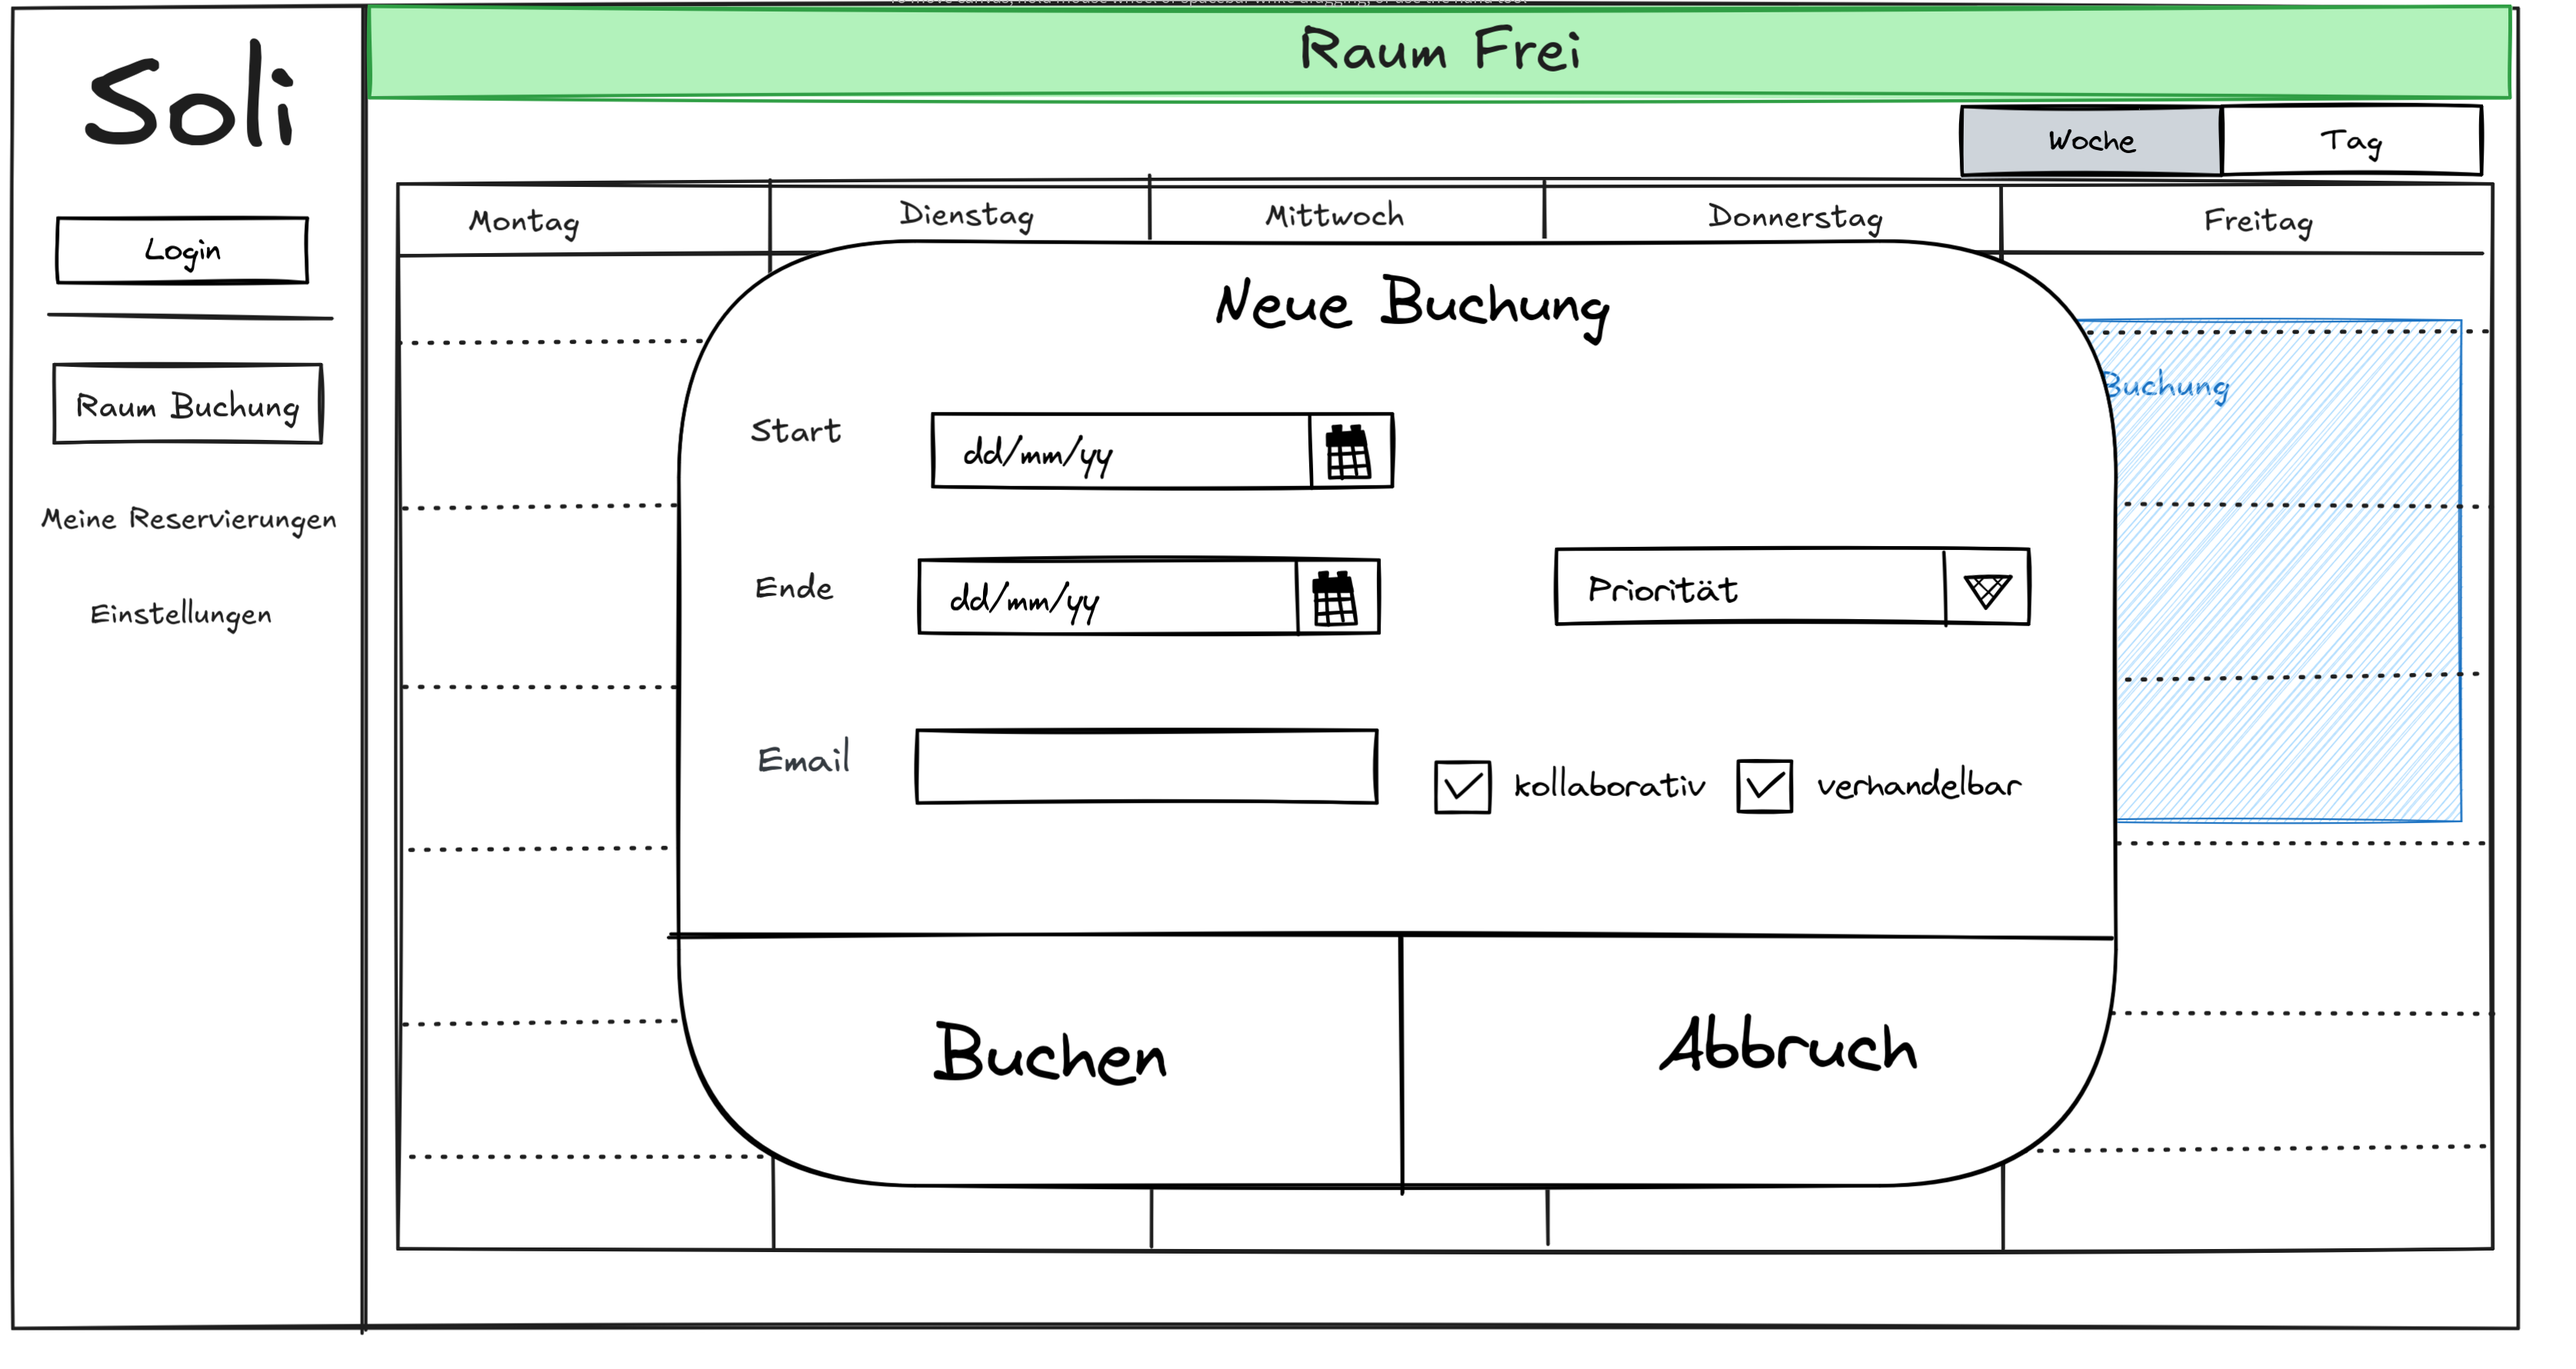
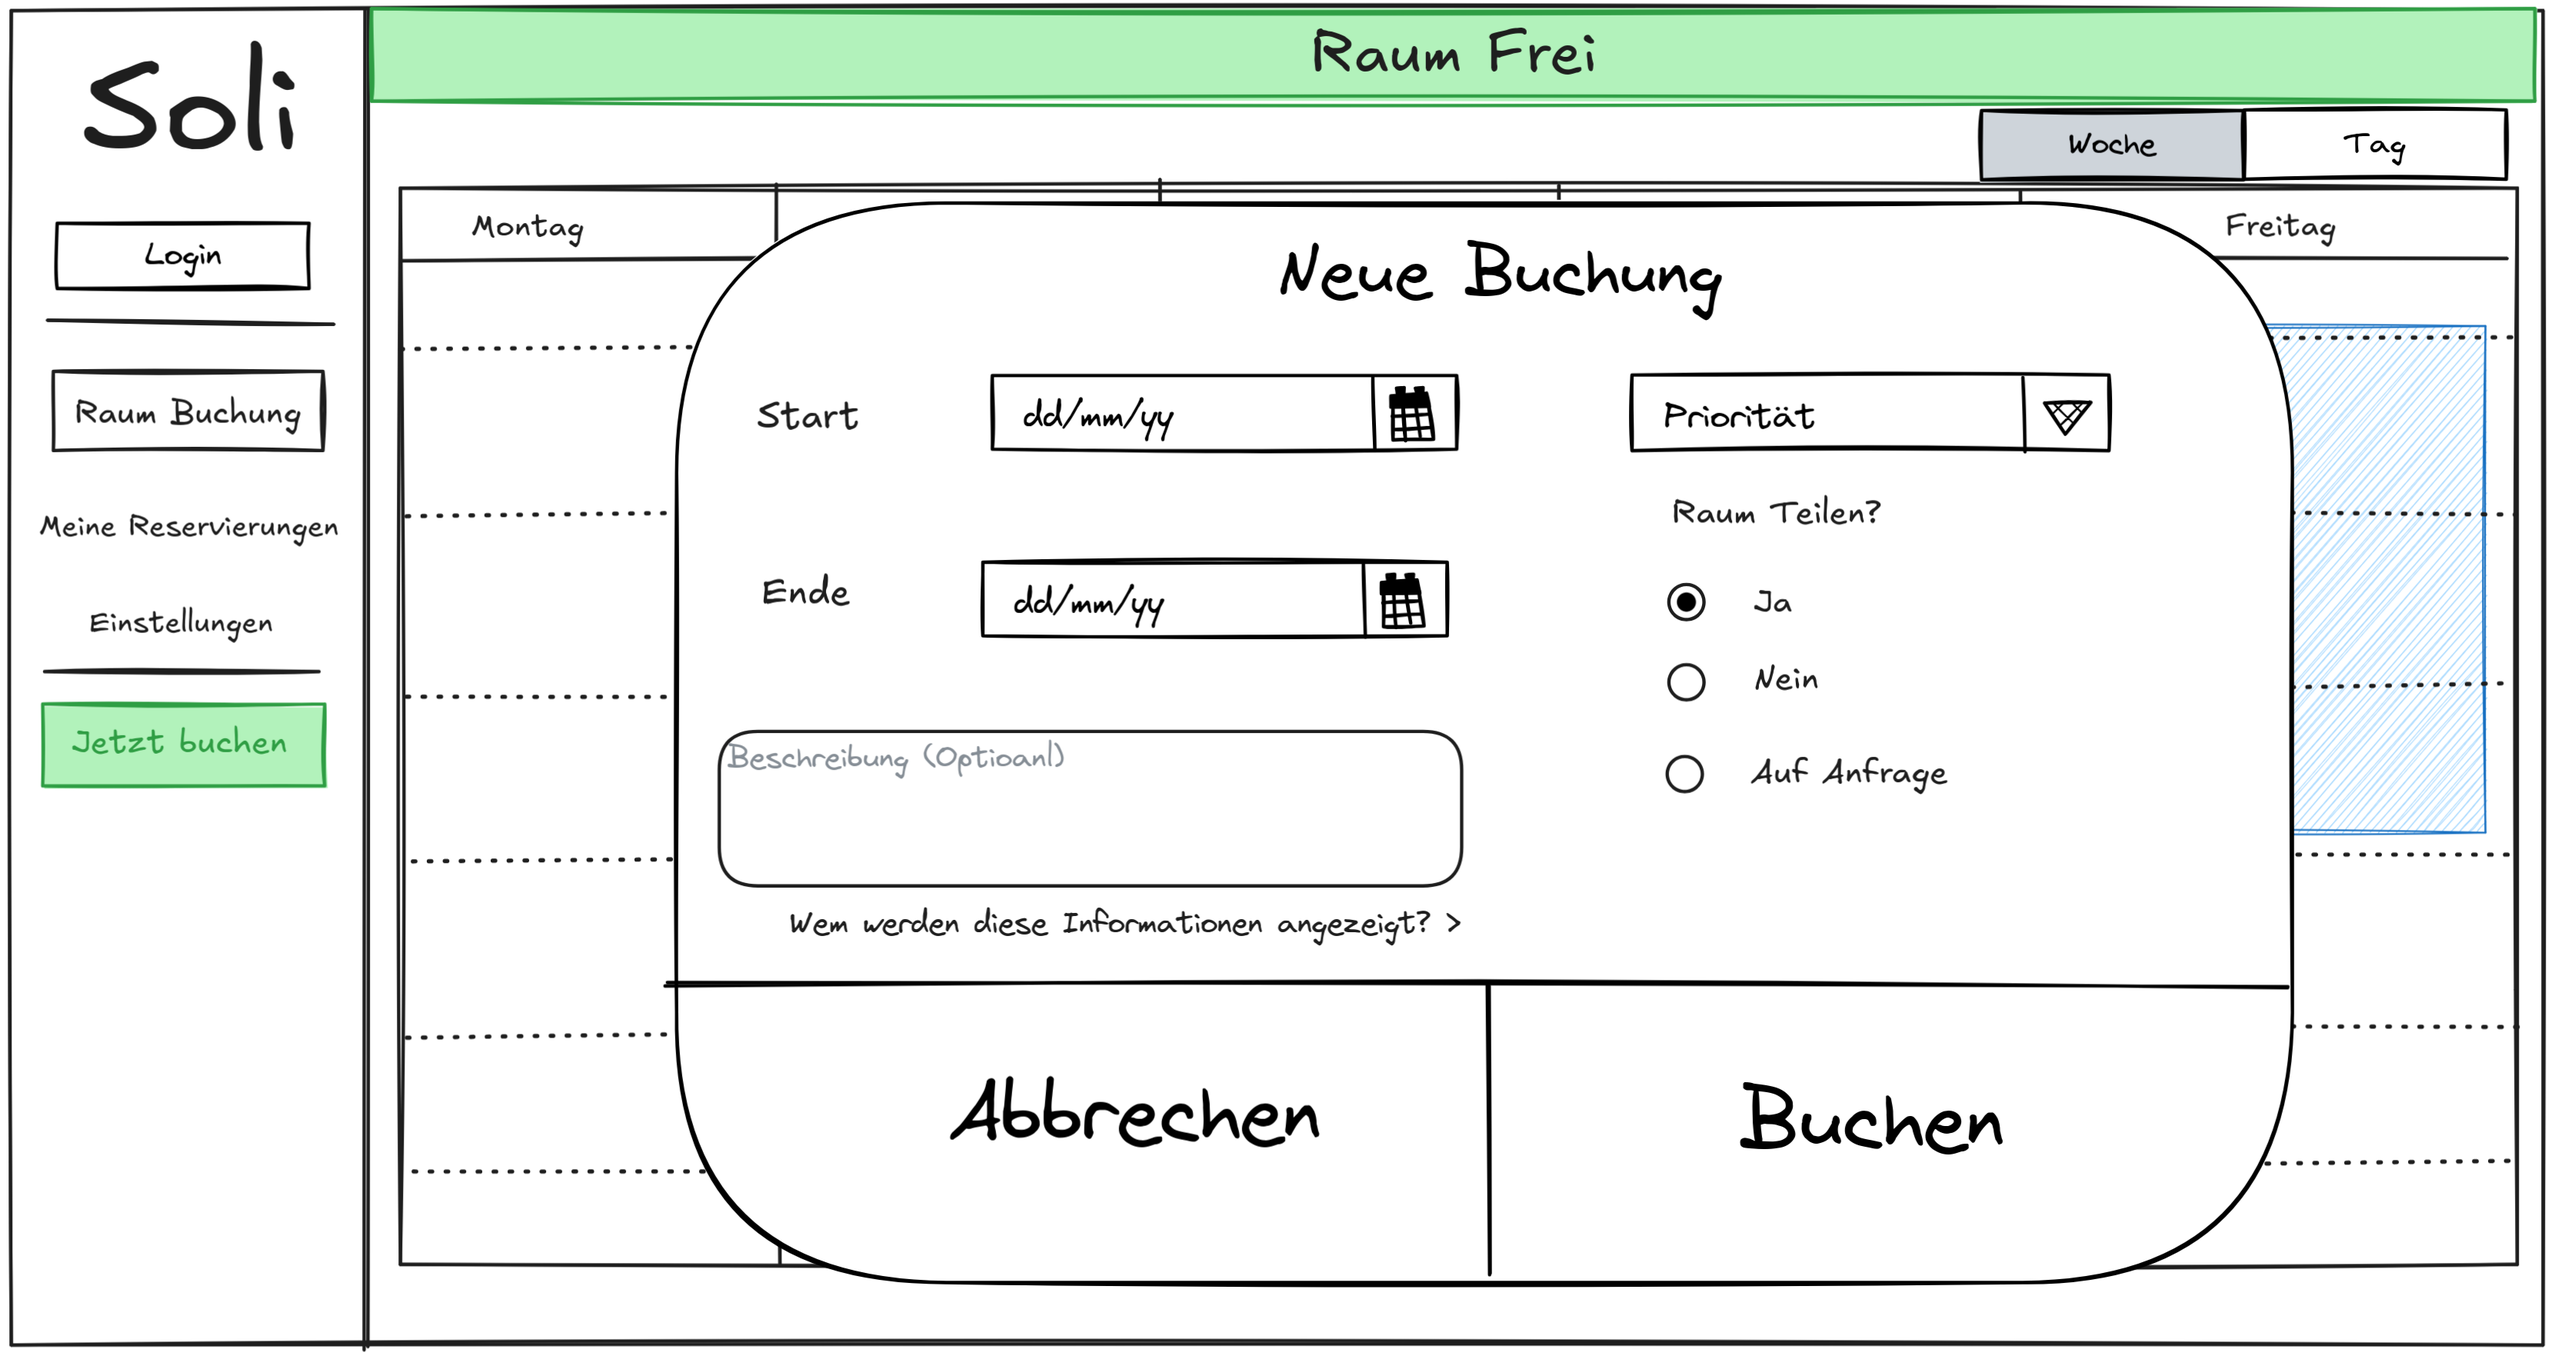
docs(pflichtenheft): updated ui mockups

diff --git a/pflichtenheft/Pflichtenheft/03_produktuebersicht.tex b/pflichtenheft/Pflichtenheft/03_produktuebersicht.tex
@@ -2,7 +2,8 @@
 
 \chapter{Produktübersicht}
 \label{chap:product_overview}
-
+Um sich einen Überblich über die im Produkt enthaltenen Funktionen zu verschaffen, wird in diesem Kapitel eine Übersicht über die grundlegegenden Funktionen in Form von Aktivitätsdiagrammen gegeben.
+Außerdem werden die Betriebsbedingungen beschrieben.
 \section{Betriebsbedingungen}
 \begin{itemize}
     \item Die Software soll in einem \gls{Docker}-\gls{Container} laufen.
@@ -12,44 +13,22 @@
     \item Die \gls{RAM}-Nutzung soll möglichst gering sein (Ideal: unter 1GB)
 \end{itemize}
 
-\section{Use-Cases}
-
-\todo[inline]{Are we still adding usecases?}
-\todo[inline]{remove template text when done.}
-
-Der folgende Abschnitt hat die Aufgabe, die Funktionalität des zu entwickelnden Systems grafisch mithilfe von Use-Case-Diagrammen und einer kurzen verbalen
-Beschreibung zu charakterisieren.
-Im Erklärungstext sollte darauf eingegangen werden, welcher Use-Case welches Kriterium erfüllt.
-Es sind so viele Use-Case-Diagramme einzufügen, wie zur vollständigen und übersichtlichen Beschreibung der Systemfunktionalität notwendig sind.
-
-Anmerkungen zu Use-Cases:
-
-\begin{itemize}
-	\item Der Zweck eines Use-Cases ist es, zu beschreiben wie ein Aktor das System benutzen kann, um ein bestimmtes Ziel zu erreichen.
-	\item Ein Use-Case ist nicht immer eine Funktion, sondern das Ziel des Systems und kann mehrere Funktionen umfassen.
-		In diesem Fall kann man dann die einzelnen Funktionen in Aktivitätsdiagrammen beschreiben.
-	\item Use-Cases werden klassischerweise so benannt, wie die Ziele aus Sicht der Akteure heißen.
-	\item Das Diagramm soll nur den groben Aufbau des Systems beschreiben, damit man sehen kann, ob das System das Richtige tut oder nicht.
-\end{itemize}
-
-
-Beispiel:
-
-\begin{figure}[ht]
-\centering
-\caption{Use-Case-Diagramm Buchungssystem}
-\end{figure}
-
-Dieses Diagramm zeigt ein minimales Use-Case-Diagramm für ein Buchungssystem.
-Der Akteur, hier ein Benutzer, der einen Flug buchen möchte, kann einen Flug buchen oder sein Benutzerkonto ansehen.
-Diese beiden Use-Cases sind für den Benutzer zielführend.
-Ein Use-Case \emph{Flug suchen} wäre hier falsch, denn das ist nicht das Ziel eines Buchungssystems. 
-Der Use-Case \emph{Flug buchen} beinhaltet mehrere Funktionen des zugehörigen Systems. 
-Diese wären \emph{Einloggen}, \emph{Flug reservieren} usw.\ und sollen im nächsten Kapitel beschrieben werden.
-In diesem Fall wäre nun ein Aktivitätsdiagramm zur Beschreibung der einzelnen Funktionen notwendig.
-
-
-Interessante Use-Cases können mit einem Aktivitätsdiagramm genauer erläutert werden.
 
 \section{Interaktions-Diagramme}
-\todo[inline]{Add interations-diagramme}
+
+\subsection{Admin Funktionalität}
+\begin{figure}
+    \centering
+    \caption{Aktivitätsdiagramm für die Admin-Funktionalität}
+    \label{fig:activity_diagram_admin}
+\end{figure}
+
+\clearpage
+
+\subsection{Anmeldeprozess}
+
+\subsection{Buchung erstellen}
+
+\subsection{Buchungen verwalten}
+\todo[inline]{Diagram entsprechend anpassen}
+\subsection{Termin Ansicht}

diff --git a/pflichtenheft/Pflichtenheft/07_benutzeroberflaeche.tex b/pflichtenheft/Pflichtenheft/07_benutzeroberflaeche.tex
@@ -17,13 +17,13 @@ für die die Verwendung des Kalenders Probleme bereitet.
 Falls zur Zeit der Verwendung eine Buchung des Nutzenden stattfindet, wird ein Quick-Checkout Button angezeigt,
 der es ermöglicht, den Raum schnell freizugeben.
 Siehe dazu auch \ref{fig:checkout}.
+\clearpage
 \begin{figure}[ht]
     \centering
     \includegraphics[scale=0.15]{figures/ui/startseite}
     \caption{Startseite der Anwendung}
     \label{fig:startseite}
 \end{figure}
-\clearpage
 
 Sollten Nutzende eine Buchung vornehmen wollen, so klicken diese in den gewünschten Zeitraum
 und es wird der Dialog in \ref{fig:buchung} dargestellt.
@@ -36,6 +36,7 @@ Für diesen Zweck werden ihnen drei Optionen bereitgestellt: "Ja", "Nein" und "A
 Deren Bedeutung wird in \change{Wo definieren wir das?} genauer erläutert.
 
 Letztlich können Nutzende eine Beschreibung für die Buchung hinterlegen, die anderen angemeldeten Nutzenden angezeigt wird.
+\clearpage
 \begin{figure}[ht]
     \centering
     \includegraphics[scale=0.15]{figures/ui/buchungsdialog}
@@ -71,6 +72,7 @@ Sind Nutzende eingeloggt und belegen den Raum,
 so wird ihnen die in Abbildung \ref{fig:checkout} dargestellte Ansicht angezeigt.
 Hier können Nutzende den Raum wieder über den Quick-Checkout Button freigeben.
 
+
 Ziel dieser Ansicht ist es, Nutzenden das frühe Freigeben des Raumes ohne unnötigen Mehraufwand zu ermöglichen.
 \todo[inline]{Diese Pflichtenheftseite sollte vlt näher bei der Kalenderansicht sein oder sogar integriert werden.}
 \begin{figure}[ht]
@@ -92,8 +94,8 @@ Nutzende haben die Möglichkeit, eine Buchung zu stornieren, indem sie auf den S
 
 Außerdem können Nutzende die Buchungsansicht zu einer Buchung öffnen, indem sie auf die Buchung klicken.
 
-\todo[inline]{Haben wir ein Mockup für die Buchungsansicht (Dialog mit Beschreibung, Löschen, Kontaktieren?)}
-\todo[inline]{Suche nach Buchungen scheint mir nicht sinnvoll, vorallem wenn wir vergangene Buchungen anonymisieren.}
+Alternativ können Nutzende eine beliebige Buchung auch im Kalender anzeigen lassen, sollte dabei Nutzende auf einen Termin klicken, so öffent sich die Ansicht in Abbildung \ref{fig:calendarviewbooking}.
+Dabei ist es dann möglich, die Buchung zu stornieren (sollte man selbt der Ersteller sein) oder mit dem Ersteller über den Termin zu verhandlen.
 
 \begin{figure}[ht]
     \includegraphics[scale=0.15]{figures/ui/reservierungsübersicht}
@@ -101,6 +103,12 @@ Außerdem können Nutzende die Buchungsansicht zu einer Buchung öffnen, indem s
     \label{fig:overview}
 \end{figure}
 \clearpage
+\begin{figure}
+    \centering
+    \includegraphics[scale=0.15]{figures/ui/reservierunginkalendar}
+    \caption{Reserverierung im Kalender}
+    \label{fig:calendarviewbooking}
+\end{figure}
 
 \section{Adminstration}
 Ein Administrator hat die Möglichkeit, über die Benutzeradminstrationsoberfläche,

diff --git a/pflichtenheft/Pflichtenheft/00_Einleitung.tex b/pflichtenheft/Pflichtenheft/00_Einleitung.tex
@@ -1,6 +1,5 @@
 %!TEX root = ../Pflichtenheft.tex
 \chapter{Einleitung}
-\todo[inline]{Das kann man bestimmt ausschmücken... }
 In modernen und inklusiven Arbeits- und Lernumgebungen spielen Rückzugsorte eine zentrale Rolle um produktives Arbeiten und das Wohlbefinden aller gewährleisten zu können.
 Das Institut für Mensch-Maschine-Interaktion und Barrierefreiheit (MIB) am KIT bietet einen Ruheraum, welcher für Meetings, kurzen Pausen oder als Rückzugsort nach einer Reizüberflutung genutzt werden kann.
 
